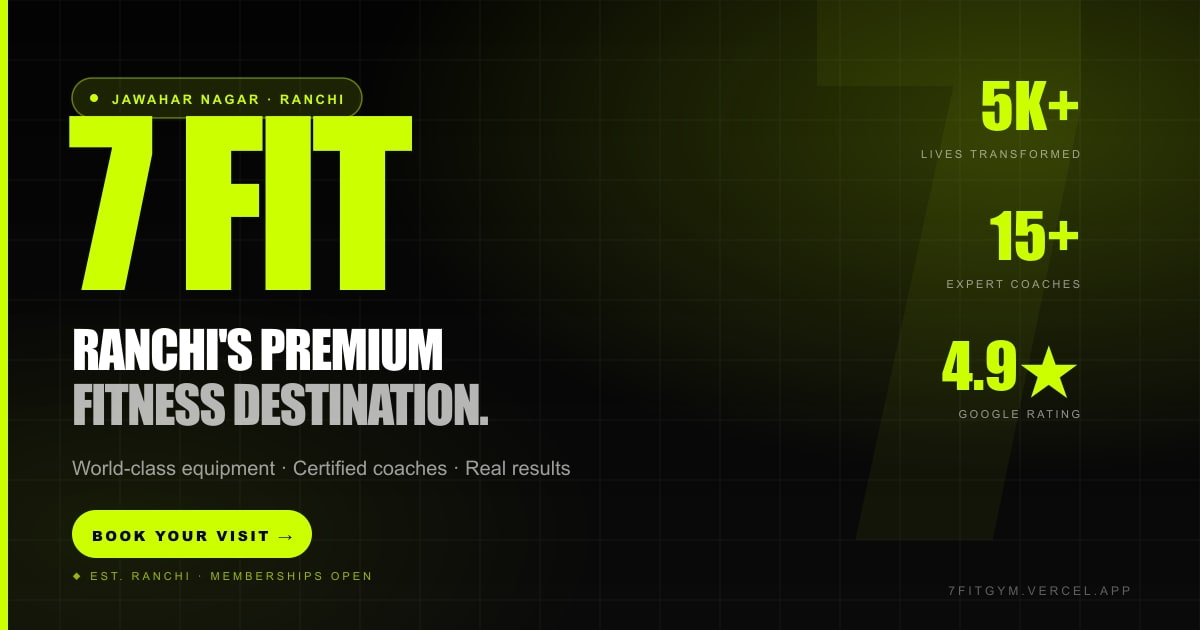
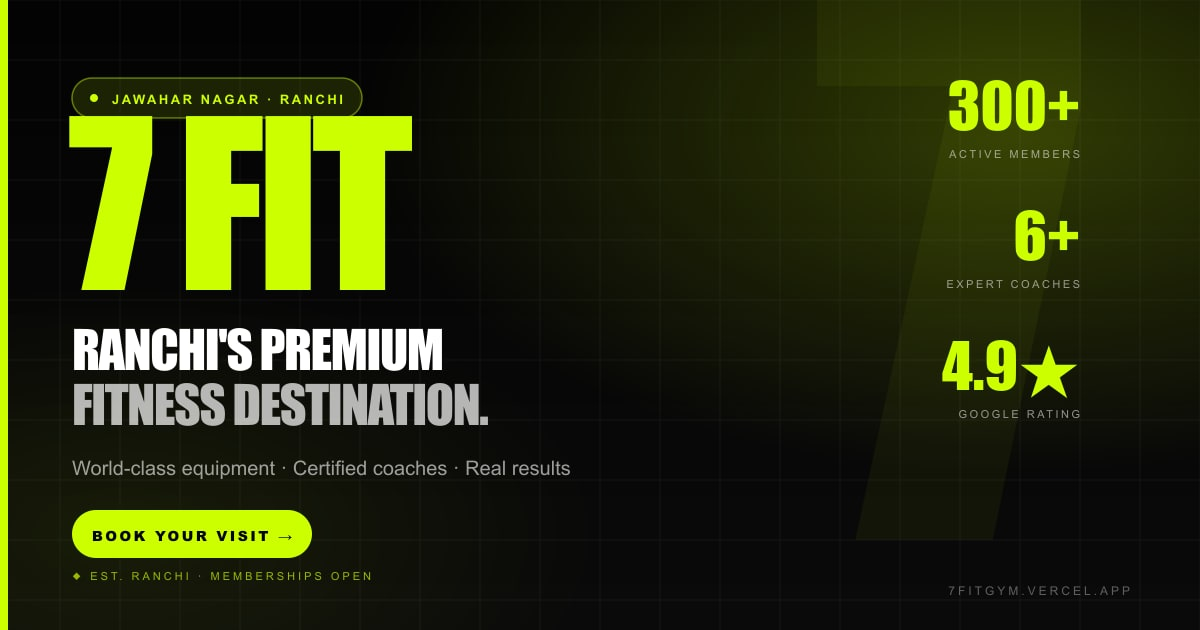
Make stats believable: 5K+ Members -> 300+, 15+ Coaches -> 6+, retire 24/7 claim, update OG

Changed region(s): [[0.7708, 0.1206, 0.8942, 0.2111], [0.8017, 0.3317, 0.8942, 0.4222], [0.7708, 0.2413, 0.8942, 0.2714]]

diff --git a/src/components/About.jsx b/src/components/About.jsx
@@ -6,7 +6,7 @@ const features = [
   { icon: Award, title: 'Certified Coaches', text: 'Internationally certified trainers obsessed with your goals.' },
   { icon: HeartPulse, title: 'Personalized Plans', text: 'Custom workout & diet plans tailored to your body.' },
   { icon: Wind, title: 'AC + Hygiene', text: 'Fully air-conditioned, sanitized space designed for comfort.' },
-  { icon: Users, title: 'Strong Community', text: '5,000+ members who push each other to be stronger every day.' },
+  { icon: Users, title: 'Strong Community', text: 'A close-knit community of members who push each other to be stronger every day.' },
   { icon: Zap, title: 'Energy That Hits', text: 'Motivating playlists, vibrant lighting — every session feels electric.' },
 ]
 
@@ -34,8 +34,8 @@ export default function About() {
 
             {/* Floating accent card */}
             <div className="absolute -bottom-8 right-2 sm:-right-6 lg:-right-10 bg-brand-400 text-ink-950 p-4 sm:p-6 rounded-2xl shadow-[0_20px_60px_-15px_rgba(204,255,0,0.5)] max-w-[200px] sm:max-w-[240px] animate-float">
-              <div className="font-display text-4xl sm:text-6xl leading-none">5K+</div>
-              <div className="uppercase tracking-[0.2em] text-[10px] sm:text-xs mt-2 font-bold">Lives Transformed</div>
+              <div className="font-display text-4xl sm:text-6xl leading-none">300+</div>
+              <div className="uppercase tracking-[0.2em] text-[10px] sm:text-xs mt-2 font-bold">Active Members</div>
             </div>
 
             {/* Floating glass badge top-left */}

diff --git a/src/components/Hero.jsx b/src/components/Hero.jsx
@@ -85,10 +85,11 @@ export default function Hero() {
             style={{ animationDelay: '0.55s' }}
           >
             {[
-              { to: 5000, suffix: '+', l: 'Members' },
-              { to: 15, suffix: '+', l: 'Coaches' },
-              { to: 50, suffix: '+', l: 'Equipment' },
-              { to: '24/7', l: 'Access' },
+              // PLACEHOLDER STATS — ask owner for real numbers before launch
+              { to: 300, suffix: '+', l: 'Members' },
+              { to: 6, suffix: '+', l: 'Coaches' },
+              { to: 60, suffix: '+', l: 'Equipment' },
+              { to: '5★', l: 'Reviews' },
             ].map((s) => (
               <div
                 key={s.l}
